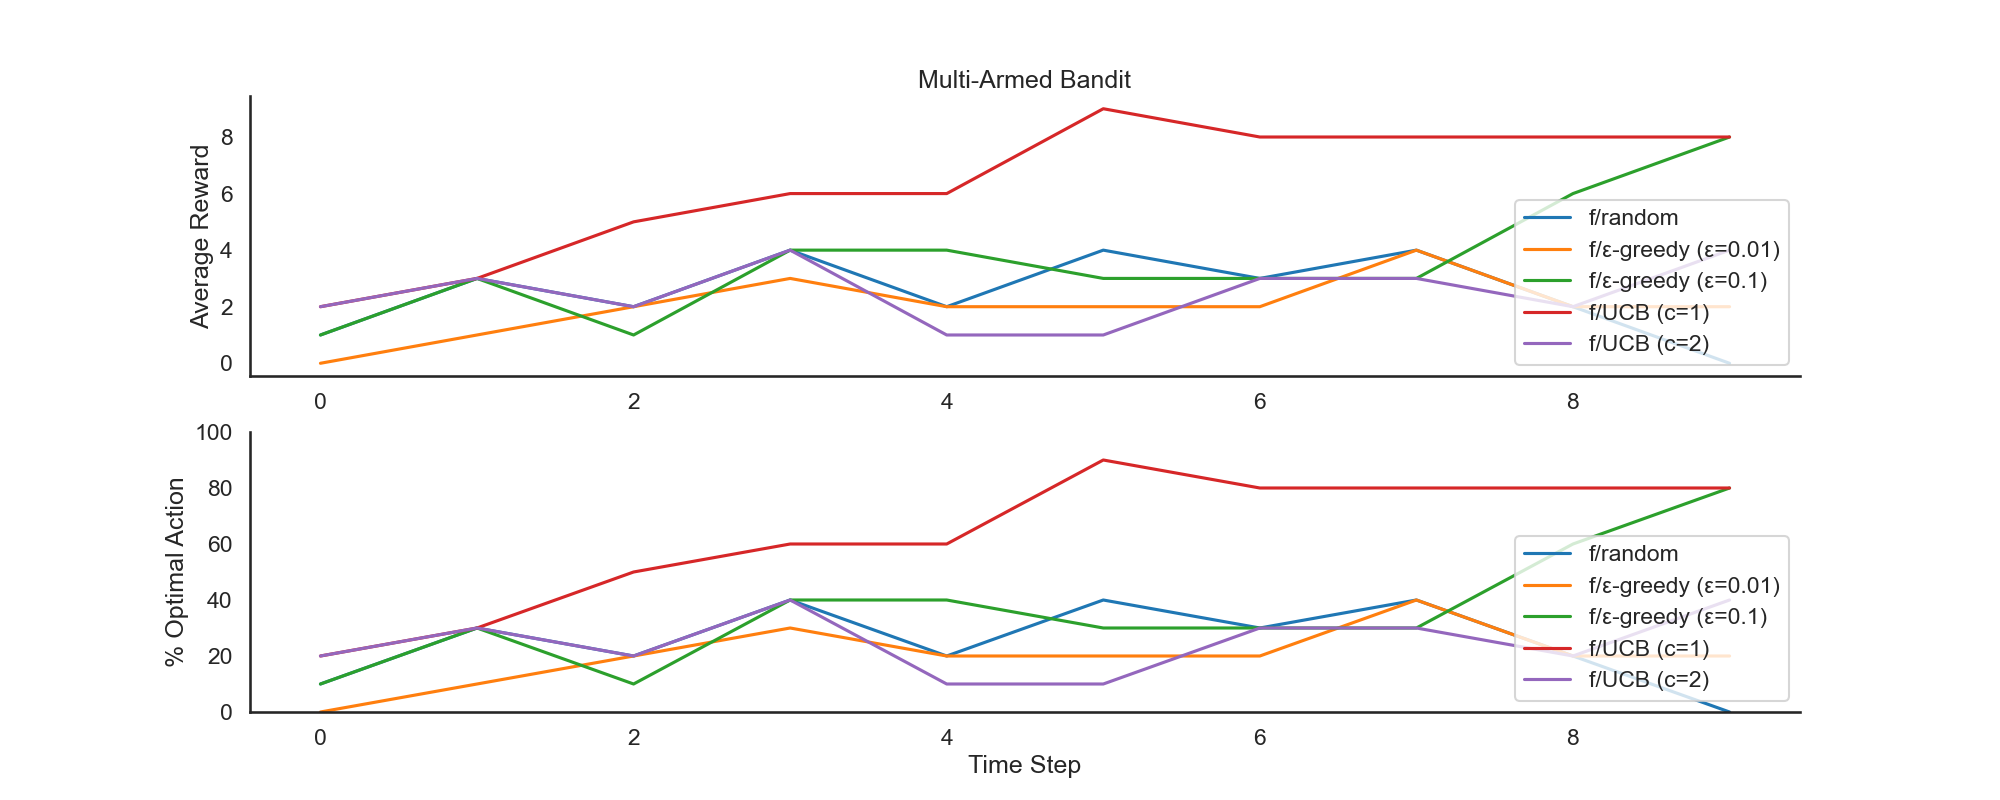
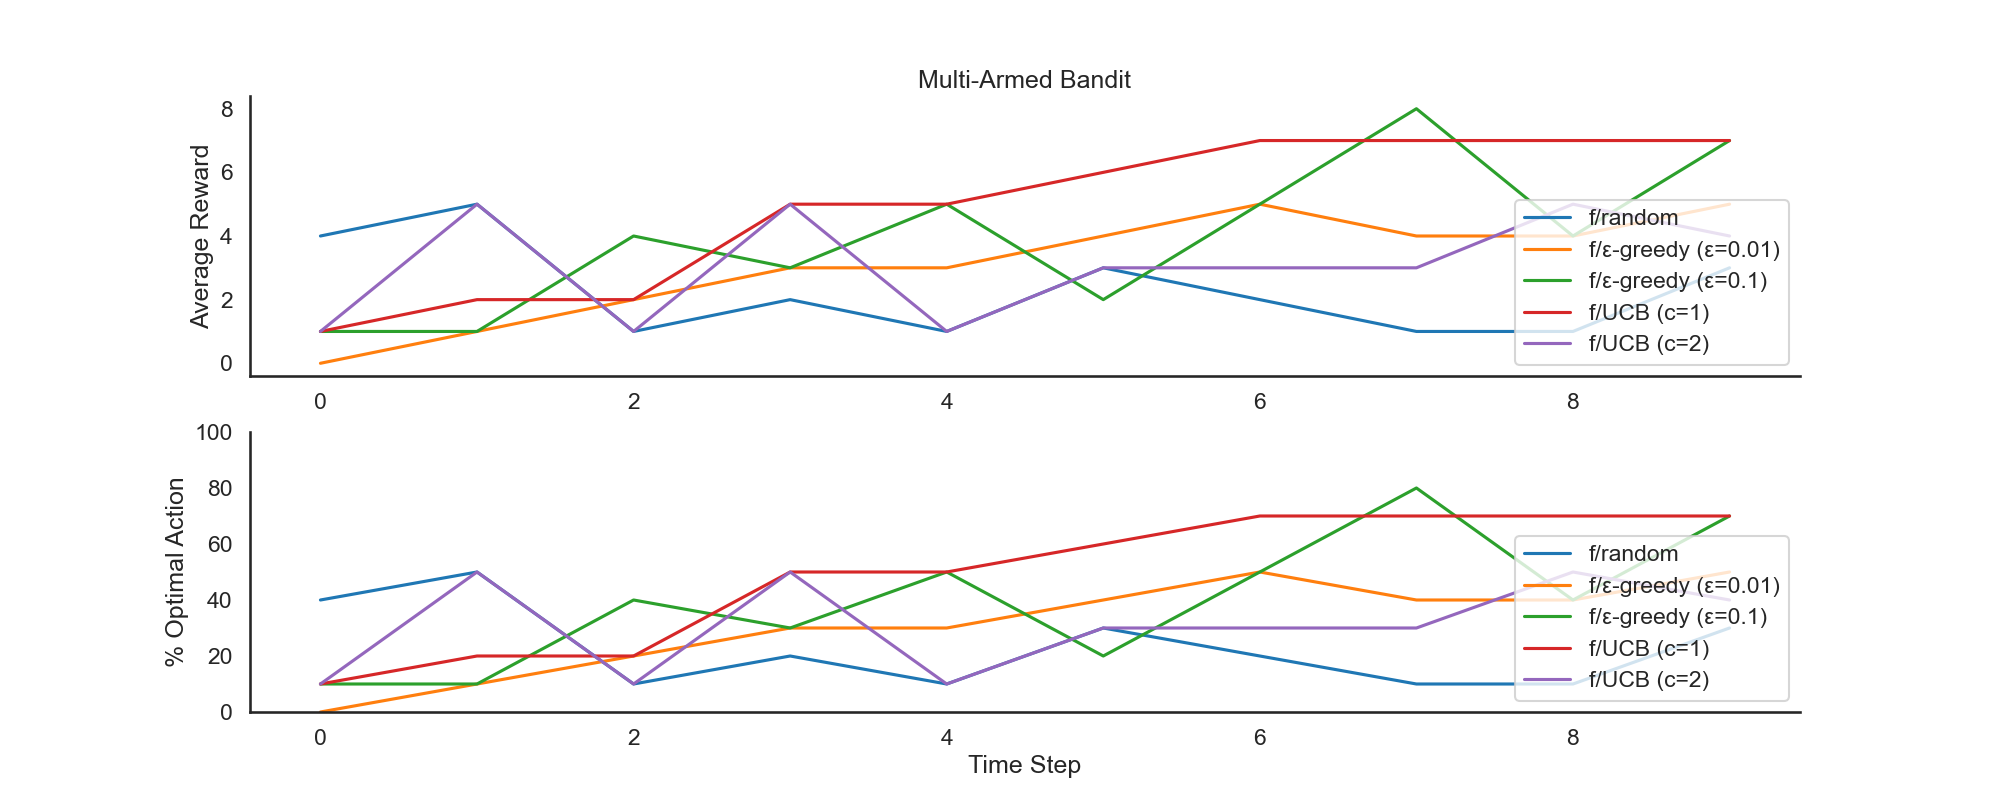
measure elapsed time

diff --git a/MAB/main.py b/MAB/main.py
@@ -2,10 +2,13 @@ import agent
 import environment
 import policy
 import bandit
+import datetime  # debugging
+
+t1 = datetime.datetime.now()  # debugging
 
 bandit = bandit.F1Bandit()
-n_trials = 1000
-n_experiments = 1000
+n_trials = 10
+n_experiments = 10
 
 # This is an example.
 agents = [agent.Agent(bandit, policy.RandomPolicy()),
@@ -17,3 +20,6 @@ agents = [agent.Agent(bandit, policy.RandomPolicy()),
 env = environment.Environment(bandit, agents)
 scores, optimal = env.run(n_trials, n_experiments)
 env.plot_results(scores, optimal)
+
+t2 = datetime.datetime.now()  # debugging
+print(t2-t1)  # debugging

diff --git a/MAB/environment.py b/MAB/environment.py
@@ -53,5 +53,5 @@ class Environment(object):
         plt.legend(self.agents, loc=4)
         sns.despine()
         plt.savefig('test.png')
-        plt.show()
+        # plt.show()
 
